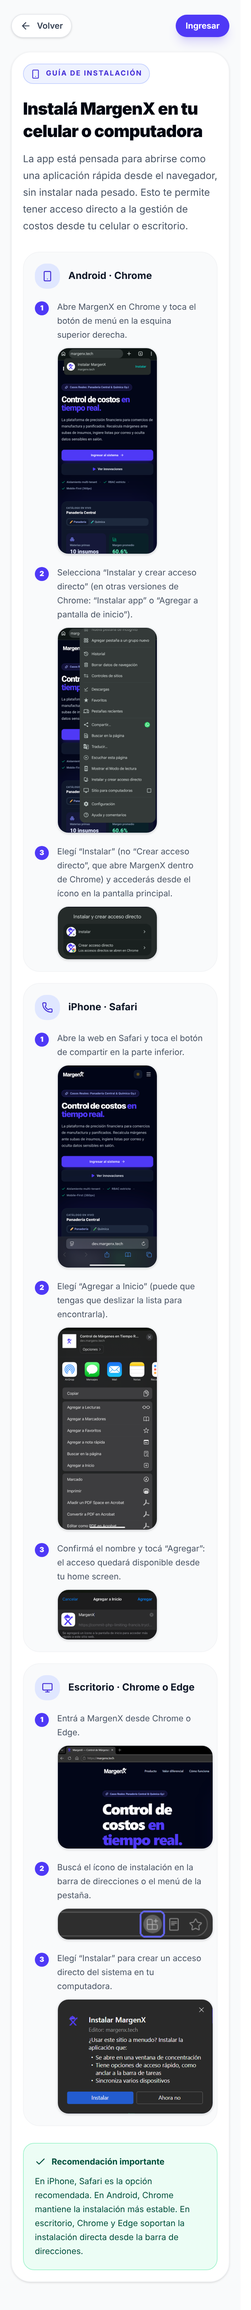
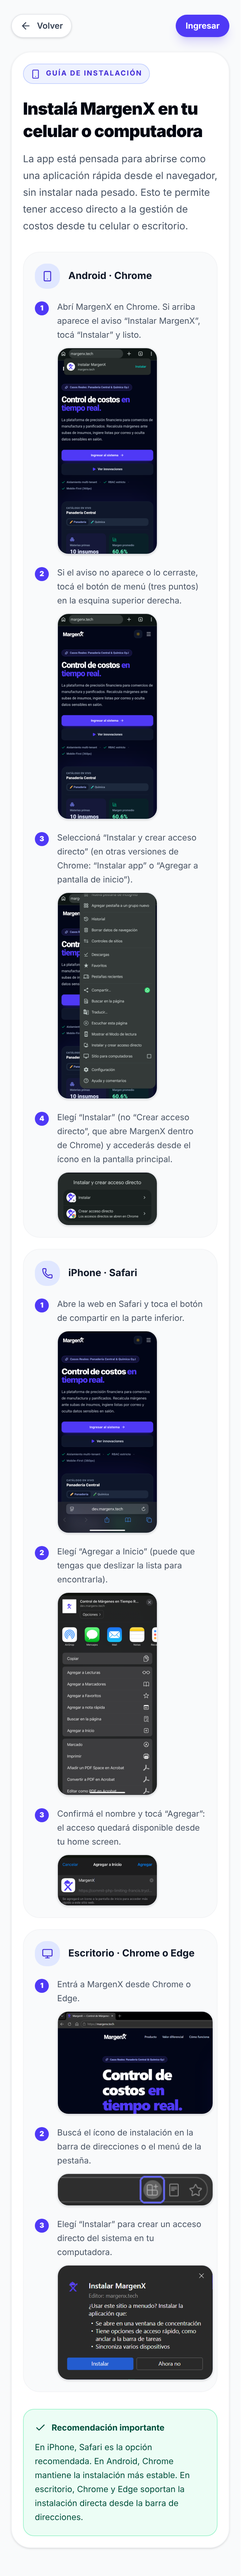
docs(frontend): aviso "Instalar MargenX" de Chrome en la guía de Android (#365)
Chrome muestra el aviso "Instalar MargenX" al abrir la página si la app
no está instalada. La guía de Android pasa a 4 pasos, cada uno con su
captura: tocar "Instalar" en el aviso o, si no aparece o se cerró, ir
por el menú de tres puntos, "Instalar y crear acceso directo" e
"Instalar". Se suma la captura de la página sin el aviso y se
renumeran las demás.

Actualiza el manual de usuario, el reporte del Sprint 5 (§2.6), el
CHANGELOG y las capturas de /instalar a 360 px y en escritorio.

diff --git a/frontend/src/app/instalar/page.tsx b/frontend/src/app/instalar/page.tsx
@@ -22,18 +22,23 @@ const guideSections: GuideSection[] = [
     title: 'Android · Chrome',
     steps: [
       {
-        text: 'Abre MargenX en Chrome y toca el botón de menú en la esquina superior derecha.',
-        image: '/guia-instalacion/android-1-chrome-menu.png',
-        imageAlt: 'Landing de MargenX en Chrome con el botón de menú de tres puntos en la esquina superior derecha',
+        text: 'Abrí MargenX en Chrome. Si arriba aparece el aviso “Instalar MargenX”, tocá “Instalar” y listo.',
+        image: '/guia-instalacion/android-1-aviso-instalar.png',
+        imageAlt: 'Landing de MargenX en Chrome con el aviso “Instalar MargenX” y su botón Instalar arriba',
       },
       {
-        text: 'Selecciona “Instalar y crear acceso directo” (en otras versiones de Chrome: “Instalar app” o “Agregar a pantalla de inicio”).',
-        image: '/guia-instalacion/android-2-instalar-app.png',
+        text: 'Si el aviso no aparece o lo cerraste, tocá el botón de menú (tres puntos) en la esquina superior derecha.',
+        image: '/guia-instalacion/android-2-chrome-menu.png',
+        imageAlt: 'Landing de MargenX en Chrome sin el aviso, con el botón de menú de tres puntos en la esquina superior derecha',
+      },
+      {
+        text: 'Seleccioná “Instalar y crear acceso directo” (en otras versiones de Chrome: “Instalar app” o “Agregar a pantalla de inicio”).',
+        image: '/guia-instalacion/android-3-instalar-app.png',
         imageAlt: 'Menú de Chrome abierto con la opción “Instalar y crear acceso directo”',
       },
       {
         text: 'Elegí “Instalar” (no “Crear acceso directo”, que abre MargenX dentro de Chrome) y accederás desde el ícono en la pantalla principal.',
-        image: '/guia-instalacion/android-3-confirmar.png',
+        image: '/guia-instalacion/android-4-confirmar.png',
         imageAlt: 'Opciones de Chrome “Instalar” y “Crear acceso directo” para MargenX',
       },
     ],

diff --git a/docs/qa/reporte-calidad-sprint5.md b/docs/qa/reporte-calidad-sprint5.md
@@ -296,7 +296,7 @@ issue #365).
 
 | Fecha | Defecto | Severidad | Pantalla | Cómo reproducirlo | Quién lo encontró | Evidencia | Estado |
 |---|---|---|---|---|---|---|---|
-| 2026-11-06 | `/instalar` muestra el placeholder "Captura pendiente" en las secciones Android y Escritorio; solo iPhone tiene las 3 capturas reales cargadas (`frontend/src/app/instalar/page.tsx`, array `guideSections`) | Menor / cosmético | `/instalar` | Entrar a `/instalar` como Visitante (no requiere sesión) y mirar las secciones "Android · Chrome" y "Escritorio · Chrome o Edge" | Recorrido automatizado del rol Visitante | [360 px](evidencias/365/instalar-360px.png) / [escritorio](evidencias/365/instalar-escritorio.png) (después del arreglo) | **Resuelto en el Sprint 6 (issue #365, 12/11/2026).** Android (Chrome) y Escritorio (Edge) tienen sus 3 capturas reales, sin barra de estado ni datos personales. Se quitó el recuadro "Captura pendiente". Una prueba de `frontend/src/app/instalar/page.test.tsx` exige una captura con texto alternativo en cada paso |
+| 2026-11-06 | `/instalar` muestra el placeholder "Captura pendiente" en las secciones Android y Escritorio; solo iPhone tiene las 3 capturas reales cargadas (`frontend/src/app/instalar/page.tsx`, array `guideSections`) | Menor / cosmético | `/instalar` | Entrar a `/instalar` como Visitante (no requiere sesión) y mirar las secciones "Android · Chrome" y "Escritorio · Chrome o Edge" | Recorrido automatizado del rol Visitante | [360 px](evidencias/365/instalar-360px.png) / [escritorio](evidencias/365/instalar-escritorio.png) (después del arreglo) | **Resuelto en el Sprint 6 (issue #365, 12/11/2026).** Android (Chrome, 4 capturas: el aviso "Instalar MargenX" y, si se cerró, el menú) y Escritorio (Edge, 3 capturas) tienen capturas reales, sin barra de estado ni datos personales. Se quitó el recuadro "Captura pendiente". Una prueba de `frontend/src/app/instalar/page.test.tsx` exige una captura con texto alternativo en cada paso |
 | 2026-11-06 | Flash (~1s) de la landing pública al visitar `/` con sesión activa, antes de redirigir a `/dashboard`. `frontend/src/app/page.tsx:117`: el guard `if (isLoaded && isSignedIn) return null` solo evita el parpadeo cuando Clerk ya confirmó la sesión; mientras `isLoaded` sigue en `false` (justo después de una navegación completa, por ejemplo escribir el dominio a mano) no hay ninguna guarda y se renderiza la landing completa | Importante | `/` | Con sesión iniciada (Admin o Colaborador), borrar la barra de direcciones y escribir de nuevo `dev.margenx.tech` | Leandro Herrera — confirmado en Android/Chrome **e** iPhone/Safari | [iPhone, en transición](evidencias/255/iphone-01-landing-flash.png) / [iPhone, resuelto](evidencias/255/iphone-02-dashboard-tras-flash.png) | Abierto — issue de seguimiento del Sprint 6 (no es grave: no pierde datos ni rompe funcionalidad) |
 | 2026-11-06 | "50 % %" — símbolo de porcentaje duplicado en el campo "Margen Mínimo Sugerido" de Perfil. `frontend/src/app/perfil/page.tsx:202-211`: el propio `NumericInput` ya renderiza su `suffixSymbol="%"` (línea 205) y el código agrega otro `<span>%</span>` suelto al lado (línea 211). Los otros 2 usos de `NumericInput` con `%` en el proyecto (`productos/nuevo/page.tsx`, `ProductMasterDataForm.tsx`) no tienen el duplicado | Menor | `/perfil` | Entrar a Perfil como Admin y mirar el campo "Margen Mínimo Sugerido" | Leandro Herrera (Android) | [captura](evidencias/255/android-02-perfil-margen-duplicado.png) (recortada, sin el correo de la cuenta) | Abierto — issue de seguimiento del Sprint 6 |
 | 2026-11-06 | Terminología inconsistente para el mismo estado de margen bajo: las listas y el panel inferior dicen "Crítico" (`MarginBadge.tsx`), el banner grande de la ficha de producto dice "Margen Bajo" (`ProductStatusBanner.tsx`) — mismo cálculo (`margin < objetivo`), dos palabras distintas | Menor | `/productos/:id` | Abrir un producto con margen por debajo del objetivo como Admin y comparar el banner de arriba con el badge del panel inferior | Leandro Herrera (Android) | [captura](evidencias/255/android-05-tarta-ricota-critico-vs-bajo.png) | Abierto — issue de seguimiento del Sprint 6 (el término único se acuerda en la issue) |

diff --git a/CHANGELOG.md b/CHANGELOG.md
@@ -13,7 +13,7 @@ Todos los cambios notables de este proyecto serán documentados en este archivo 
 
 ### Changed
 
-- **Frontend:** La guía `/instalar` muestra capturas reales en las tres secciones. Se sumaron Android (Chrome) y Escritorio (Edge), y se quitó el recuadro "Captura pendiente". Los pasos de Android siguen el texto actual de Chrome: "Instalar y crear acceso directo" y después "Instalar". Una prueba exige una captura con texto alternativo en cada paso, y `docs/manual-usuario/instalacion.md` muestra las mismas imágenes (`#365`).
+- **Frontend:** La guía `/instalar` muestra capturas reales en las tres secciones. Se sumaron Android (Chrome) y Escritorio (Edge), y se quitó el recuadro "Captura pendiente". En Android, si Chrome muestra el aviso "Instalar MargenX" al abrir la página, alcanza con tocar "Instalar". Si no aparece o se cerró, los pasos siguen el menú actual de Chrome: "Instalar y crear acceso directo" y después "Instalar". Una prueba exige una captura con texto alternativo en cada paso, y `docs/manual-usuario/instalacion.md` muestra las mismas imágenes (`#365`).
 - **DevOps / n8n:** Rediseño del mail de resumen de ingesta. Empieza por "Para revisar", con enlaces directos al entorno de la lista (`margenx.tech` o `dev.margenx.tech`): precios en cuarentena (a la bandeja), códigos sin mapear (a Proveedores; los `NOT_FOUND` ya no se informan como descartes) y productos debajo de su margen mínimo (botón "Ajustar"). Después, el resumen en números, con singular y plural correctos ("1 fila", "1 precio quedó en cuarentena"). El resumen y la alerta de margen comparten la plantilla `infra/n8n/plantillas/mail-margenx.js`, con estilos de MargenX y tabla de productos legible a 360 px; `sincronizar.mjs` la copia a los workflows y las pruebas fallan si se desincroniza. Documentado en `infra/n8n/README.md` (`#254`).
 - **Frontend:** La cantidad de una línea de receta se carga en la unidad que prefiera el usuario dentro de la misma magnitud (g o kg; ml o l) y se edita directamente en la lista. La base sigue guardando la cantidad en la unidad del insumo, y las líneas guardadas con menos de 1 kg o 1 l se muestran en gr o ml. La conversión vive en `frontend/src/lib/recipeConversion.ts`, compartida por el modal y las dos pantallas de producto (`#352`).
 - **Frontend:** Agregar o quitar un insumo de la receta en `/productos/:id` ya no guarda al instante: todo se guarda con "Guardar Cambios", y salir con cambios sin guardar pide confirmación. Si el guardado falla (por ejemplo, con un 400), el borrador se conserva para corregirlo (`#352`).

diff --git a/docs/manual-usuario/instalacion.md b/docs/manual-usuario/instalacion.md
@@ -4,18 +4,21 @@ Esta guía te ayuda a abrir MargenX como una app desde tu navegador para que que
 
 ## Android con Chrome
 
-1. Abre MargenX en Chrome.
-2. Toca el menú de tres puntos en la esquina superior derecha.
+1. Abrí MargenX en Chrome. Si arriba aparece el aviso “Instalar MargenX”, tocá “Instalar” y listo.
 
-   ![Landing de MargenX en Chrome con el botón de menú de tres puntos en la esquina superior derecha](../../frontend/public/guia-instalacion/android-1-chrome-menu.png)
+   ![Landing de MargenX en Chrome con el aviso "Instalar MargenX" y su botón Instalar arriba](../../frontend/public/guia-instalacion/android-1-aviso-instalar.png)
+
+2. Si el aviso no aparece o lo cerraste, tocá el menú de tres puntos en la esquina superior derecha.
+
+   ![Landing de MargenX en Chrome sin el aviso, con el botón de menú de tres puntos en la esquina superior derecha](../../frontend/public/guia-instalacion/android-2-chrome-menu.png)
 
 3. Elegí la opción “Instalar y crear acceso directo” (en otras versiones de Chrome: “Instalar app” o “Agregar a pantalla de inicio”).
 
-   ![Menú de Chrome abierto con la opción "Instalar y crear acceso directo"](../../frontend/public/guia-instalacion/android-2-instalar-app.png)
+   ![Menú de Chrome abierto con la opción "Instalar y crear acceso directo"](../../frontend/public/guia-instalacion/android-3-instalar-app.png)
 
 4. Elegí “Instalar”. No elijas “Crear acceso directo”: abre MargenX dentro de Chrome, no como app.
 
-   ![Opciones de Chrome "Instalar" y "Crear acceso directo" para MargenX](../../frontend/public/guia-instalacion/android-3-confirmar.png)
+   ![Opciones de Chrome "Instalar" y "Crear acceso directo" para MargenX](../../frontend/public/guia-instalacion/android-4-confirmar.png)
 
 5. La app quedará disponible en la pantalla principal como un acceso directo.
 
